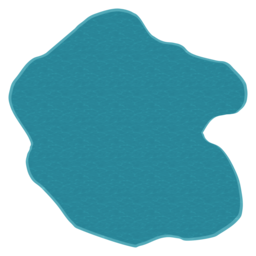
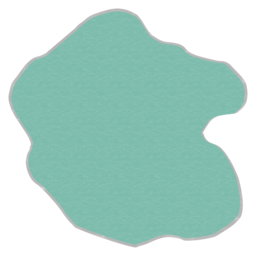
jaya

diff --git a/game.js b/game.js
@@ -1110,8 +1110,33 @@ console.log(
                 // centre row converts to the distance the machine must have cut
                 // before the water starts arriving.
                 const midRow = (r0 + r1) / 2;
+                // The flow art, riding over the water: a couple of copies of the
+                // same picture, each running centre-to-bank a fraction of a cycle
+                // apart, so water is always seen to be arriving.
+                const FL = PF.FLOW || {};
+                const rings = [];
+                const flowKey = `pond_${this._pondFlowName(art)}`;
+                if (FL.ENABLED !== false && this.textures.exists(flowKey)) {
+                    for (let n = 0; n < (FL.RINGS || 2); n++) {
+                        rings.push(this._addB(this.add.image(px, py, flowKey)
+                            .setDisplaySize(w, h)
+                            .setDepth((PF.DEPTH !== undefined ? PF.DEPTH : 1.46)
+                                    + (FL.DEPTH_OFFSET || 0.005))
+                            .setVisible(false), seg));
+                    }
+                }
                 (seg.ponds || (seg.ponds = [])).push({
-                    water, step: 0, t: 0, filling: false, done: false,
+                    water, rings,
+                    // A tint MULTIPLIES the art, so the value it ends on is not
+                    // the deep colour — it is deep ÷ shallow, per channel. Work
+                    // that out once here from the two colours in config, so the
+                    // config stays readable: the colour the art was painted at,
+                    // and the colour it should reach.
+                    tintTo: this._tintRatio(PF.SHALLOW_COLOR, PF.DEEP_COLOR),
+                    // Each ring keeps its own phase, staggered around the cycle,
+                    // so they can retire one at a time as each finishes its run.
+                    ringPhase: rings.map((_, n) => n / Math.max(1, rings.length)),
+                    filling: false, done: false, spent: false,
                     sx: water.scaleX, sy: water.scaleY,          // full size
                     startPx: (g.rows - midRow - 0.5) * g.tile,
                 });
@@ -1131,29 +1156,78 @@ console.log(
     // area and taking its square root for the scale gives exactly that, and it is
     // why a bounce felt wrong — an overshoot means water piling up past the bank
     // and coming back, which is not what a filling basin does.
+    //
+    // Over the top of it, the flow art runs outward from the centre on a loop —
+    // water still arriving. Each ring carries its OWN phase, so when the pond
+    // fills the rings already travelling are allowed to finish their journey and
+    // simply are not sent out again. Cutting one off halfway would be a wave
+    // stopping in open water.
     _updatePonds(tn, dt) {
         const seg = tn.seg;
         if (!seg || !seg.ponds) return;
         const PF = CONFIG.ROAD.TILEMAP.POND_FILL || {};
+        const FL = PF.FLOW || {};
         for (const p of seg.ponds) {
-            if (p.filling || tn.progressPx < p.startPx) continue;   // not level yet
-            p.filling = true;
+            if (!p.filling) {
+                if (tn.progressPx < p.startPx) continue;      // not level yet
+                p.filling = true;
+                const from = PF.START !== undefined ? PF.START : 0.1;
+                p.water.setVisible(true).setScale(p.sx * from, p.sy * from);
+                // Tween the area from its starting share to full; the sprite's
+                // scale is the root of it, every frame.
+                const area = { v: from * from };
+                this.tweens.add({
+                    targets: area, v: 1,
+                    duration: PF.FILL_MS || 10000,
+                    ease: PF.EASE || 'Linear',        // steady inflow
+                    onUpdate: () => {
+                        const k = Math.sqrt(area.v);
+                        p.water.setScale(p.sx * k, p.sy * k);
+                        // Shallow to deep. The art is painted at its SHALLOW
+                        // colour, because a tint can only ever darken — so the
+                        // pond starts untinted and is multiplied down toward
+                        // DEEP_COLOR as it fills. Red falls fastest of the three,
+                        // which is what depth does to light: the warmth a shallow
+                        // pond borrows from its bed is the first thing to go.
+                        // Absorption is exponential, so the shift is quick early
+                        // and asymptotic late — it settles as the spread does.
+                        if (p.tintTo) {
+                            const t = 1 - Math.exp(-(PF.TINT_RATE || 3) * area.v);
+                            p.water.setTint(this._lerpColor(0xffffff, p.tintTo, t));
+                        }
+                    },
+                    onComplete: () => { p.done = true; },
+                });
+            }
+            if (!p.rings || !p.rings.length || p.spent) continue;
 
-            const from = PF.START !== undefined ? PF.START : 0.1;
-            p.water.setVisible(true).setScale(p.sx * from, p.sy * from);
-            // Tween the area from its starting share to full; the sprite's scale
-            // is the root of it, every frame.
-            const area = { v: from * from };
-            this.tweens.add({
-                targets: area, v: 1,
-                duration: PF.FILL_MS || 10000,
-                ease: PF.EASE || 'Linear',        // steady inflow
-                onUpdate: () => {
-                    const k = Math.sqrt(area.v);
-                    p.water.setScale(p.sx * k, p.sy * k);
-                },
-                onComplete: () => { p.done = true; },
+            // The rings ride the water's CURRENT extent, so they always run out
+            // to wherever the shoreline has reached and never overshoot it.
+            const reach = p.water.scaleX / p.sx;
+            const cycle = (FL.CYCLE_MS || 1600) / 1000;
+            const from  = FL.START !== undefined ? FL.START : 0.05;
+            const peak  = FL.ALPHA !== undefined ? FL.ALPHA : 0.5;
+            let alive = 0;
+            p.rings.forEach((r, i) => {
+                let ph = p.ringPhase[i];
+                if (ph < 0) return;                           // this one has landed
+                ph += dt / cycle;
+                if (ph >= 1) {
+                    // Reached the bank. Send it out again unless the pond has
+                    // finished filling, in which case this was its last run.
+                    if (p.done) { p.ringPhase[i] = -1; r.setVisible(false); return; }
+                    ph -= 1;
+                }
+                p.ringPhase[i] = ph;
+                alive++;
+                r.setVisible(true)
+                 .setScale(p.sx * reach * (from + (1 - from) * ph), 
+                           p.sy * reach * (from + (1 - from) * ph))
+                 // Swells on the way out and is spent by the time it arrives — a
+                 // ring that simply vanished at the edge would read as a hoop.
+                 .setAlpha(peak * Math.sin(Math.PI * ph));
             });
+            if (!alive) p.spent = true;                       // still water from here
         }
     }
 
@@ -1199,6 +1273,7 @@ console.log(
             for (const name of Object.values(lv.PONDS || {})) {
                 out.add(name);
                 out.add(this._pondWaterName(name));
+                out.add(this._pondFlowName(name));
             }
         }
         return [...out];
@@ -1207,6 +1282,12 @@ console.log(
     _pondWaterName(dryName) {
         const P = CONFIG.ROAD.TILEMAP.POND_FILL || {};
         return String(dryName).replace(P.DRY_SUFFIX || '_dry', P.WATER_SUFFIX || '_water');
+    }
+
+    _pondFlowName(dryName) {
+        const P = CONFIG.ROAD.TILEMAP.POND_FILL || {};
+        const F = P.FLOW || {};
+        return String(dryName).replace(P.DRY_SUFFIX || '_dry', F.SUFFIX || '_flow');
     }
 
     // Where the marker sheet starts in THIS map. Markers mean what they mean by
@@ -3164,6 +3245,19 @@ console.log(
 
 
     // ── Color lerp helper ────────────────────────────────────────────────────
+    // The tint that turns `from` into `to` when multiplied over it. Any channel
+    // that would need to brighten is clamped — a tint cannot lighten, so if this
+    // clamps, the art needs repainting lighter in that channel rather than the
+    // number being fudged.
+    _tintRatio(from, to) {
+        if (from === undefined || to === undefined) return null;
+        const a = hexColor(from), b = hexColor(to);
+        const ch = (sh) => Math.min(1, (((b >> sh) & 255) || 0) / Math.max(1, (a >> sh) & 255));
+        return (Math.round(ch(16) * 255) << 16)
+             | (Math.round(ch(8)  * 255) << 8)
+             |  Math.round(ch(0)  * 255);
+    }
+
     _lerpColor(c1, c2, t) {
         const r1 = (c1 >> 16) & 0xFF, g1 = (c1 >> 8) & 0xFF, b1 = c1 & 0xFF;
         const r2 = (c2 >> 16) & 0xFF, g2 = (c2 >> 8) & 0xFF, b2 = c2 & 0xFF;

diff --git a/config.js b/config.js
@@ -423,7 +423,41 @@ var CONFIG = {
                 // why there is no bounce here: an overshoot would be the pond
                 // spilling past its banks and sucking back.
                 EASE:     'Linear',   // applied to the AREA, not the scale
+
+                // Shallow to deep. SHALLOW_COLOR is the colour the water ART is
+                // painted at — a tint can only darken, so the art has to start
+                // as the lightest state it will ever have. The code multiplies it
+                // down toward DEEP_COLOR as the pond fills; red falls fastest,
+                // which is what depth does to light.
+                SHALLOW_COLOR: '#85C0B2',   // what pondN_water.png was exported at
+                DEEP_COLOR:    '#2B8C9E',   // where it lands, full
+                TINT_RATE:     3,     // how sharply it gets there. Absorption is
+                                      // exponential, so the shift is quick early
+                                      // and asymptotic late — higher = deep sooner
                 DEPTH:    1.46,    // on the dry bed (1.45), under the canal
+
+                // ── The flow over it ─────────────────────────────────────
+                // <pond>_flow.png, run outward from the centre on a loop while
+                // the pond is filling: water still arriving. Greyscale art, so
+                // it takes the water's colour. It stops when the pond is full —
+                // a still pond should be still.
+                FLOW: {
+                    ENABLED:  true,
+                    SUFFIX:   '_flow',
+                    RINGS:    2,       // copies, evenly spread around the cycle,
+                                       // so one leaves the centre as another
+                                       // reaches the bank
+                    CYCLE_MS: 3200,    // centre to bank, one ring
+                    START:    0.05,    // size it leaves the centre at
+                    ALPHA:    0.5,     // at mid-journey; it swells from nothing
+                                       // and is spent by the time it arrives
+                                       // Once the pond is full, rings already on
+                                       // their way finish the journey and are not
+                                       // sent out again — their own alpha curve
+                                       // takes them to nothing at the bank, so
+                                       // nothing is ever cut off mid-water.
+                    DEPTH_OFFSET: 0.005,   // just over the water
+                },
             },
             SHEET:   'graphics/tilesheets/canals.webp',
             FRAME:   128,           // frame size in the sheet
